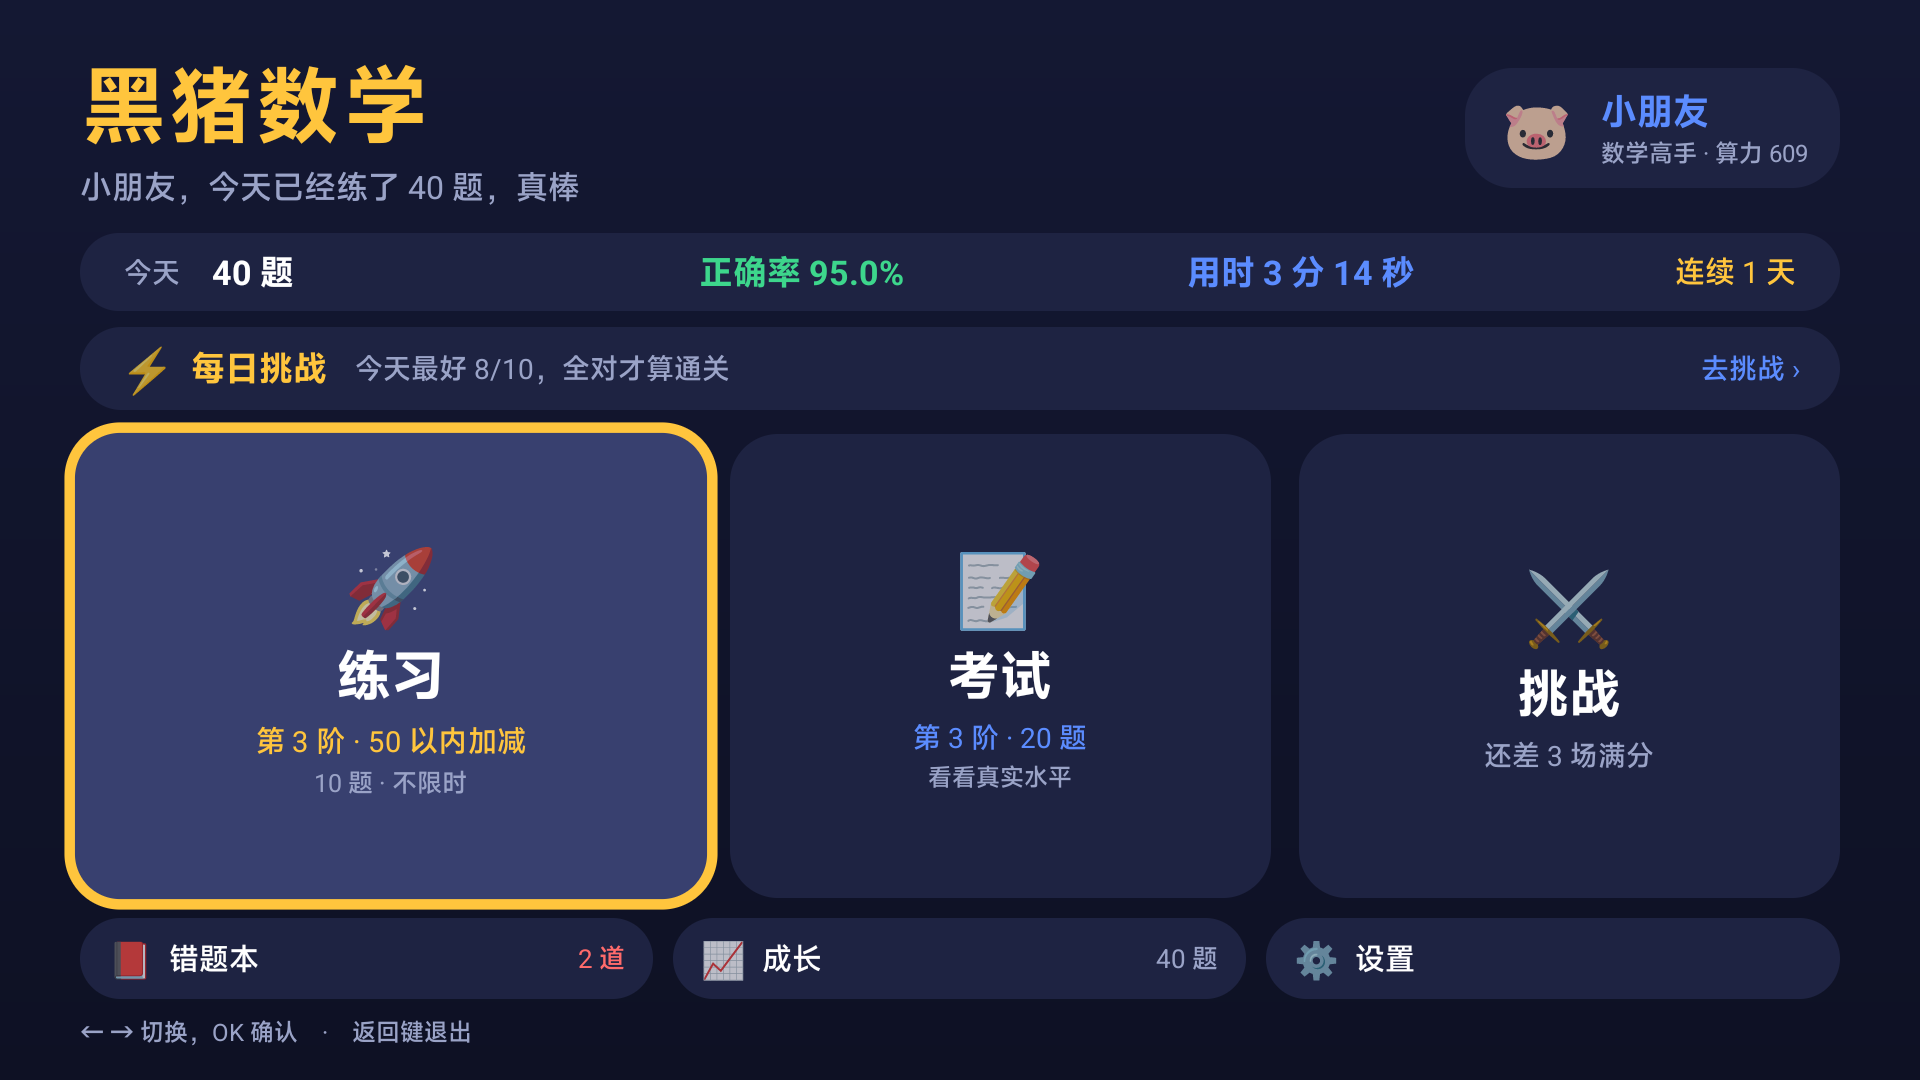
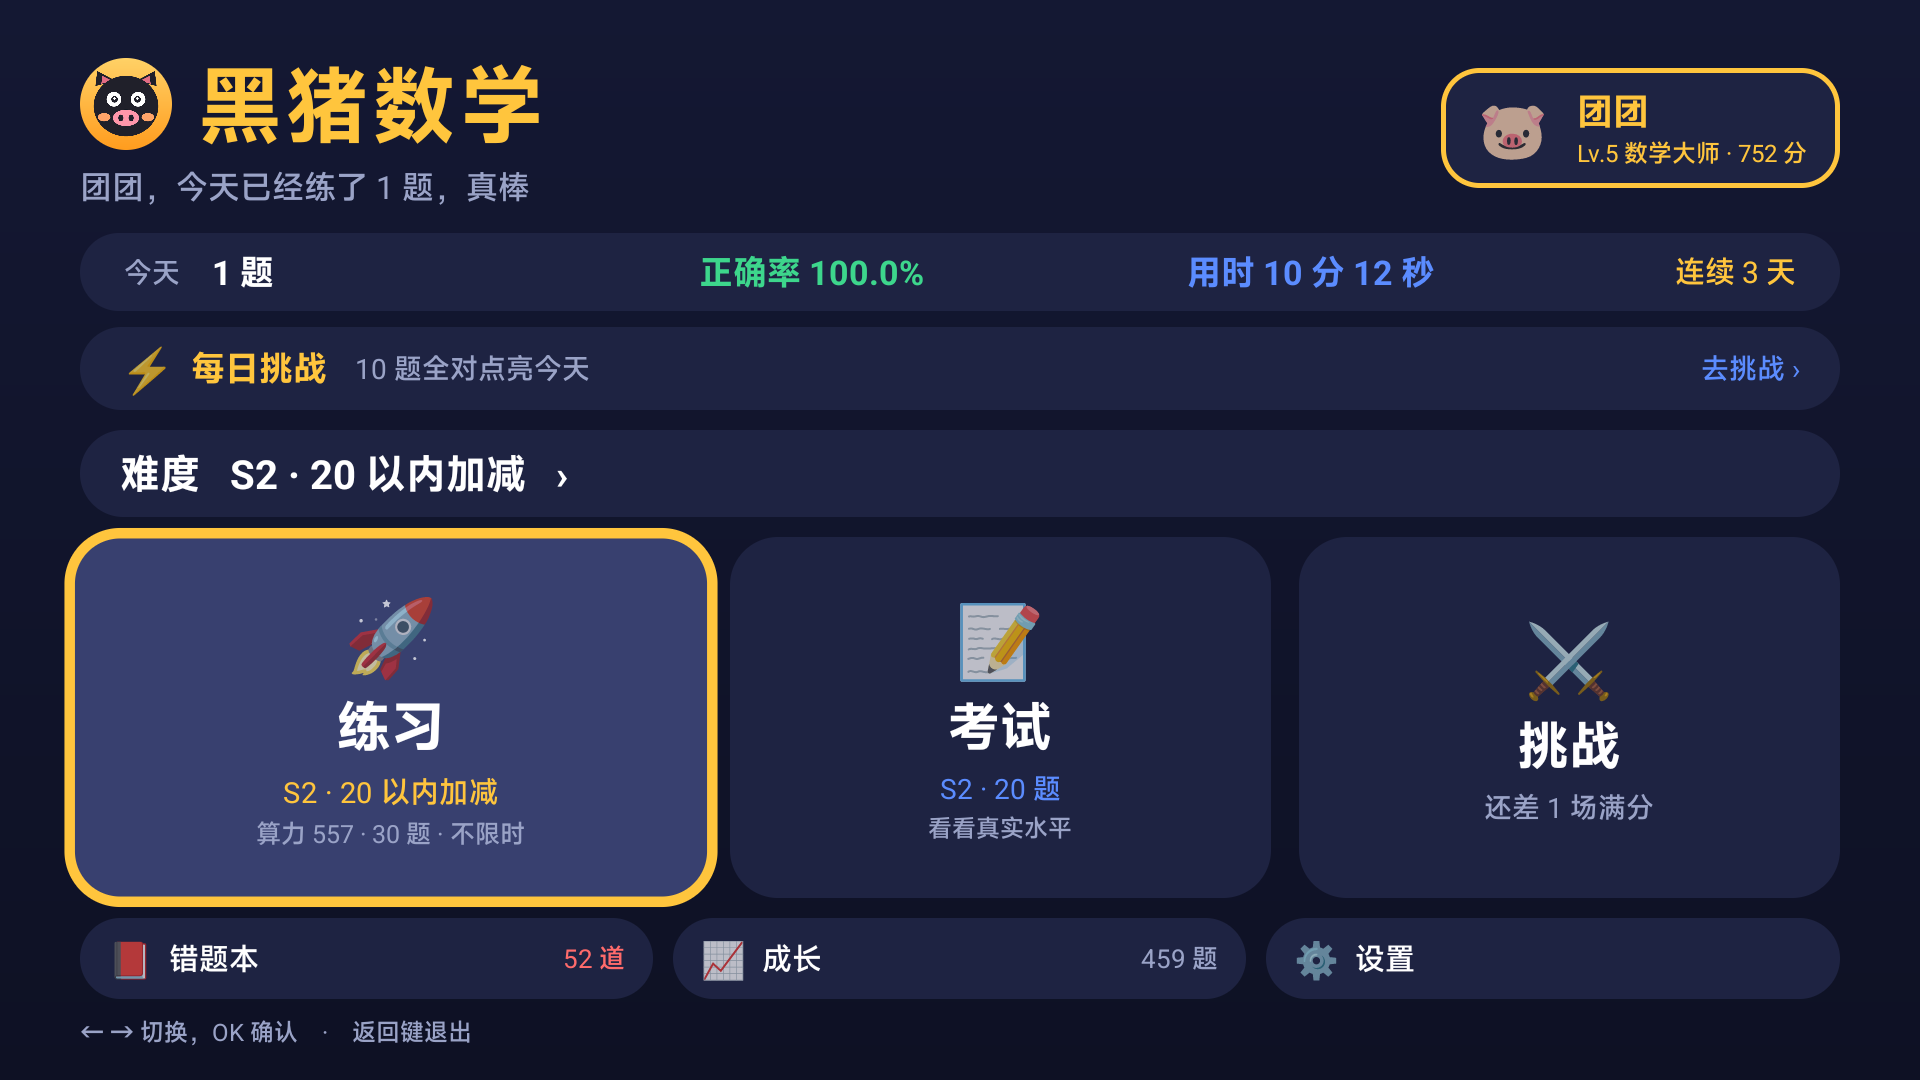
v1.1.0：图标/横幅/首页黑猪 + 速度统计排除发呆题 + README 资源更新
- 版本 1.1.0（versionCode 3）
- 图标/自适应前景/圆形图标重生成（新黑猪），横幅同步，新增 README 用大图 docs/app-icon.png
- 成长页「平均每题用时」彻底不带 611 秒脏样本：DailyPoint/Overall 不再退回 duration/total，
  没有有效速度样本就是 0，曲线按断点画（截图已复核，纵轴 8.6 秒）
- README：首页/成长两张截图换成新版；下载段去掉 1.0.0 的 SHA-256/证书哈希（1.1.0 需要
  发布签名 keystore 才能覆盖安装，本机没有该 keystore），补充自己打包的说明
- .gitignore 忽略 __pycache__，并把误提交的 tools/__pycache__ 移出版本库

diff --git a/app/src/main/java/com/mathking/tv/data/Models.kt b/app/src/main/java/com/mathking/tv/data/Models.kt
@@ -152,12 +152,14 @@ data class DailyPoint(
     val speedQuestions: Int = total
 ) {
     val accuracy: Double get() = if (total == 0) 0.0 else correct * 100.0 / total
+
+    /**
+     * 平均每题用时：只用有效速度样本（单题 >SPEED_MAX_MS 的题不算）。
+     * 当天所有题都超时（没有有效样本）时返回 0，曲线那边按「没有数据」画断点，
+     * 不能退回 msTotal/total —— 那个 612 秒就是这么冒出来的。
+     */
     val avgSeconds: Double
-        get() = when {
-            speedQuestions > 0 -> speedMs / 1000.0 / speedQuestions
-            total > 0 -> msTotal / 1000.0 / total
-            else -> 0.0
-        }
+        get() = if (speedQuestions > 0) speedMs / 1000.0 / speedQuestions else 0.0
 }
 
 /** 知识点统计 */
@@ -190,13 +192,13 @@ data class Overall(
 ) {
     val accuracy: Double get() = if (questions == 0) 0.0 else correct * 100.0 / questions
 
-    /** 平均每题用时：只按有效速度样本算（没有样本时退回全部题，避免显示 0） */
+    /**
+     * 平均每题用时：只按有效速度样本算（单题 >SPEED_MAX_MS 的不算）。
+     * 一题有效样本都没有就返回 0（调用方别退回 msTotal/questions，
+     * 那正是「10 分钟没动的一题」把平均速度拉成 612 秒的路径）。
+     */
     val avgSeconds: Double
-        get() = when {
-            speedQuestions > 0 -> speedMs / 1000.0 / speedQuestions
-            questions > 0 -> msTotal / 1000.0 / questions
-            else -> 0.0
-        }
+        get() = if (speedQuestions > 0) speedMs / 1000.0 / speedQuestions else 0.0
 }
 
 /** 距离解锁下一阶段的进度 */

diff --git a/app/src/main/java/com/mathking/tv/data/Repo.kt b/app/src/main/java/com/mathking/tv/data/Repo.kt
@@ -424,7 +424,10 @@ class Repo(context: Context, userId: Long = 0L) {
             null
         ).use { c ->
             while (c.moveToNext()) {
-                out[c.getString(0)] = Overall(c.getInt(1), c.getInt(2), c.getInt(3), c.getLong(4))
+                out[c.getString(0)] = Overall(
+                    c.getInt(1), c.getInt(2), c.getInt(3), c.getLong(4),
+                    speedMs = 0L, speedQuestions = 0
+                )
             }
         }
         // 每档的有效速度样本（单题 >SPEED_MAX_MS 不计入速度）
@@ -493,7 +496,7 @@ class Repo(context: Context, userId: Long = 0L) {
                 val sp = speedMap[day]
                 map[day] = DailyPoint(
                     day, c.getInt(1), c.getInt(2), c.getLong(3),
-                    sp?.first ?: c.getLong(3), sp?.second ?: c.getInt(1)
+                    sp?.first ?: 0L, sp?.second ?: 0
                 )
             }
         }

diff --git a/app/src/main/java/com/mathking/tv/ui/StatsFragment.kt b/app/src/main/java/com/mathking/tv/ui/StatsFragment.kt
@@ -95,10 +95,11 @@ class StatsFragment : Fragment(R.layout.fragment_stats) {
         )
 
         // 速度曲线
-        val speeds = data.daily30.filter { it.total > 0 }.map { it.avgSeconds.toFloat() }
+        // 只画有有效速度样本的日子（单题超过 150 秒的题不算速度）
+        val speeds = data.daily30.filter { it.speedQuestions > 0 }.map { it.avgSeconds.toFloat() }
         val maxSpeed = max(10f, (speeds.maxOrNull() ?: 10f) * 1.3f)
         val speedValues: List<Float?> = data.daily30.map {
-            if (it.total > 0) it.avgSeconds.toFloat() else null
+            if (it.speedQuestions > 0) it.avgSeconds.toFloat() else null
         }
         b.chartSpeed.setData(
             "平均每题用时（越短越熟）",

diff --git a/tools/gen_banner.py b/tools/gen_banner.py
@@ -10,7 +10,7 @@ import sys
 from PIL import Image, ImageDraw, ImageFont
 
 sys.path.insert(0, os.path.dirname(os.path.abspath(__file__)))
-from gen_icon import CHARCOAL, GOLD_BOTTOM, GOLD_TOP, gradient, draw_pig  # noqa: E402
+from gen_icon import GOLD_BOTTOM, GOLD_TOP, ICON_SCALE, gradient, draw_pig  # noqa: E402
 
 ROOT = os.path.dirname(os.path.dirname(os.path.abspath(__file__)))
 OUT = os.path.join(ROOT, "app", "src", "main", "res", "drawable-xhdpi", "tv_banner.png")
@@ -29,8 +29,8 @@ def main():
     # 注意：draw_pig 的坐标是按 1024 画的，画布也必须是 1024，最后再缩小
     icon = gradient(1024, GOLD_TOP, GOLD_BOTTOM).convert("RGBA")
     idraw = ImageDraw.Draw(icon, "RGBA")
-    pad = 1024 * (1 - 0.84) / 2
-    draw_pig(idraw, scale=0.84, offset=(pad, pad))
+    pad = 1024 * (1 - ICON_SCALE) / 2
+    draw_pig(idraw, scale=ICON_SCALE, offset=(pad, pad))
     mask = Image.new("L", (1024, 1024), 0)
     ImageDraw.Draw(mask).rounded_rectangle([0, 0, 1023, 1023], radius=240, fill=255)
     icon.putalpha(mask)

diff --git a/tools/gen_icon.py b/tools/gen_icon.py
@@ -151,6 +151,15 @@ def main():
     pig_head(384).save(os.path.join(d, "ic_pig_head.png"))
     print("drawable-xhdpi/ic_pig_head.png 384")
 
+    # README / 发布页用的大图（改图标必须一起重生成，否则文档里还是旧形象）
+    os.makedirs(os.path.join(RES, "drawable-nodpi"), exist_ok=True)
+    icon_legacy(512).save(os.path.join(RES, "drawable-nodpi", "app_icon_512.png"))
+    print("drawable-nodpi/app_icon_512.png 512")
+    docs = os.path.join(ROOT, "docs")
+    os.makedirs(docs, exist_ok=True)
+    icon_legacy(512).save(os.path.join(docs, "app-icon.png"))
+    print("docs/app-icon.png 512")
+
 
 if __name__ == "__main__":
     main()

diff --git a/README.md b/README.md
@@ -13,16 +13,15 @@
 
 **最新版**：[github.com/jobsdavid/heizhu-shuxue/releases/latest](https://github.com/jobsdavid/heizhu-shuxue/releases/latest)
 
-**国内镜像**（下载更快）：[dingshift.com/dl/heizhu-shuxue-1.0.0.apk](https://dingshift.com/dl/heizhu-shuxue-1.0.0.apk)
+**国内镜像**（下载更快）：[dingshift.com/dl/heizhu-shuxue-1.1.0.apk](https://dingshift.com/dl/heizhu-shuxue-1.1.0.apk)
 
-两个地址是同一个文件。当前版本 `1.0.0`，`heizhu-shuxue-1.0.0.apk`（4.1 MB，Android 6.0 及以上）。
+两个地址是同一个文件。当前版本 `1.1.0`（Android 6.0 及以上）。
 
-| 项 | 值 |
-|---|---|
[1 lines of base64/hex data omitted]
-| 签名证书 SHA-256 | `9F:5E:E5:9B:89:F4:C9:51:D1:7B:30:BD:73:40:37:96:4B:7D:12:F8:34:21:8D:9C:8A:11:28:6C:BE:B5:A9:C9` |
+> 1.1.0 的安装包需要用**发布签名证书**（keystore）打包才能覆盖安装旧版；
+> 仓库里只保留源码与构建脚本，签名文件不进仓库。自己打包：
+> `gradle :app:assembleRelease`（未配置签名时 Gradle 会用 debug 签名，只能全新安装，不能升级安装）。
 
-装到电视三种办法：U 盘拷过去用文件管理器装（先允许未知来源）；或电视浏览器直接开上面的链接；或 `adb install -r heizhu-shuxue-1.0.0.apk`。
+装到电视三种办法：U 盘拷过去用文件管理器装（先允许未知来源）；或电视浏览器直接开上面的链接；或 `adb install -r heizhu-shuxue-1.1.0.apk`。
 
 升级直接覆盖安装，不用卸载。校验：`sha256sum` 与 `apksigner verify --print-certs` 对一下上表指纹。
 
